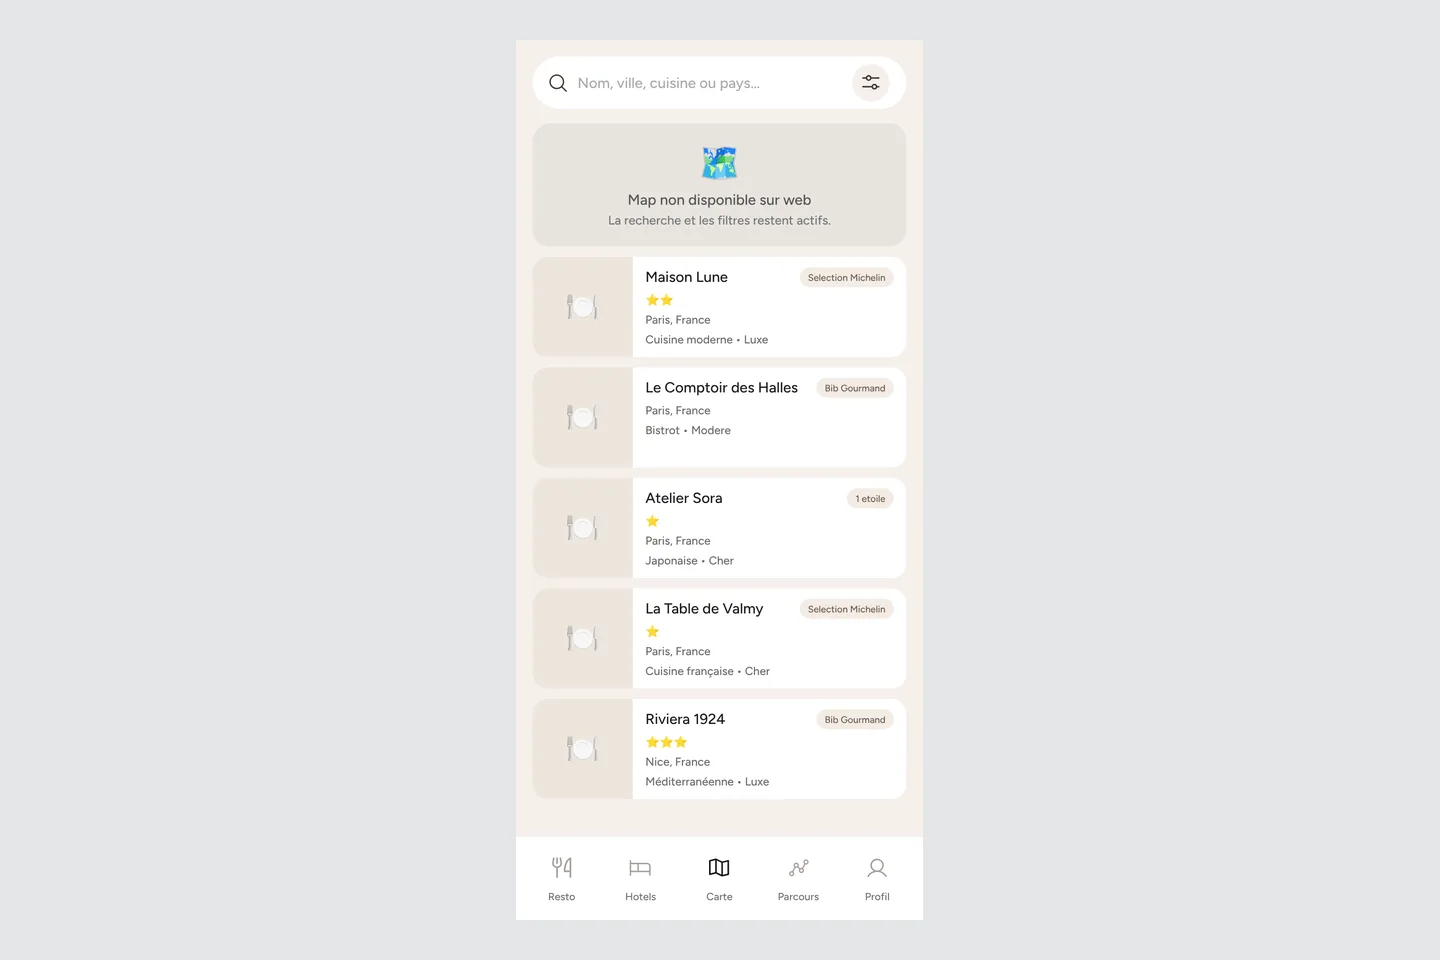
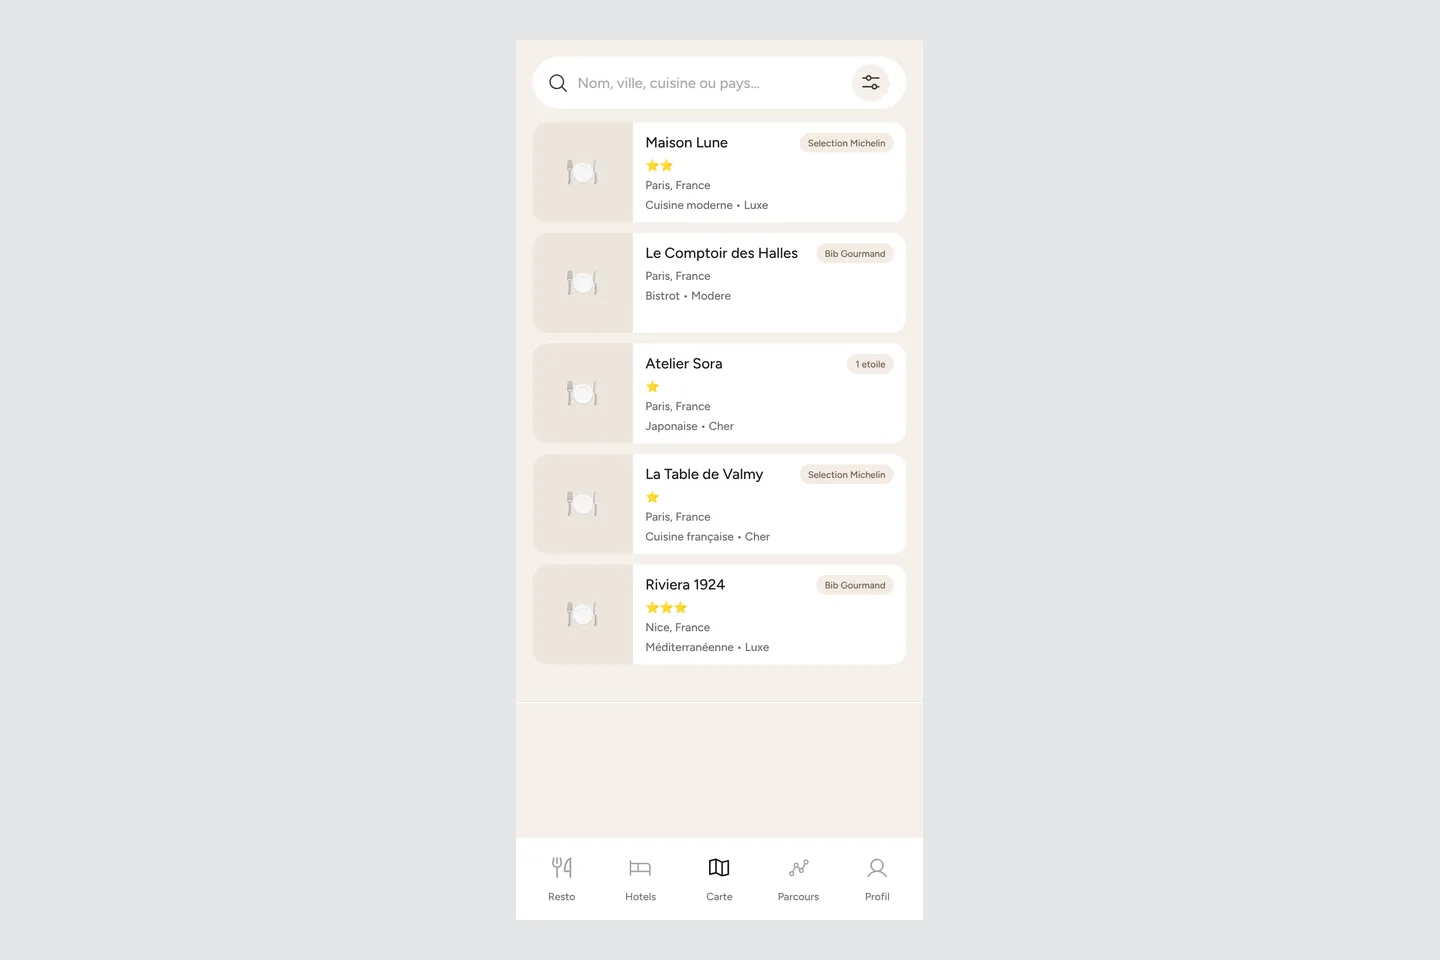
Corrections après test dans le navigateur
Échap sur une capture agrandie ne ferme plus la fiche, le bouton retour du navigateur ferme la fiche, la page ne défile plus derrière une fiche ouverte. Capture agrandie ajustée à l'écran, aperçu du hackathon Michelin en trois écrans, espacements du parcours et légendes harmonisés.

diff --git a/src/data/projectCaptures.ts b/src/data/projectCaptures.ts
@@ -24,7 +24,7 @@ const sources: Record<string, Source[]> = {
   "Corso Motors": [
     {
       src: "/projects/corso-home.webp",
-      ...owner("Site vitrine — accueil", "Showcase website — home"),
+      ...owner("Accueil du site vitrine", "Showcase website home page"),
     },
     {
       src: "/projects/corso-models.webp",
@@ -32,7 +32,7 @@ const sources: Record<string, Source[]> = {
     },
     {
       src: "/projects/corso-login.webp",
-      ...owner("Portail unifié — connexion", "Unified portal — sign-in"),
+      ...owner("Connexion au portail unifié", "Unified portal sign-in"),
     },
     {
       src: "/projects/corso-hub.webp",
@@ -76,11 +76,11 @@ const sources: Record<string, Source[]> = {
     {
       src: "/projects/comp-bike.webp",
       fr: [
-        "Interface de Comp Bike — capture originale",
+        "Interface de Comp Bike",
         "Capture conservée depuis la première version du portfolio.",
       ],
       en: [
-        "Comp Bike interface — original screenshot",
+        "Comp Bike interface",
         "Kept from the first version of this portfolio.",
       ],
     },
@@ -88,35 +88,43 @@ const sources: Record<string, Source[]> = {
       src: "/projects/comp-bike-home.webp",
       fr: [
         "Accueil et présentation du produit",
-        "Application lancée localement · novembre 2026.",
+        "Application lancée localement, novembre 2026.",
       ],
-      en: [
-        "Home page and product overview",
-        "App run locally · November 2026.",
-      ],
+      en: ["Home page and product overview", "App run locally, November 2026."],
     },
     {
       src: "/projects/comp-bike-config.webp",
       fr: [
         "Configuration et sélection des composants",
-        "Interface locale · données de démonstration présentes dans le dépôt.",
+        "Interface locale, données de démonstration présentes dans le dépôt.",
       ],
       en: [
         "Build configuration and component picker",
-        "Local run · demo data shipped with the repository.",
+        "Local run, demo data shipped with the repository.",
       ],
     },
   ],
   "Hackathon Michelin": [
     {
+      src: "/projects/michelin-overview.webp",
+      fr: [
+        "Recherche, création de parcours et profil",
+        "Version web Expo locale, établissements fictifs servis par une API simulée.",
+      ],
+      en: [
+        "Search, trail builder and profile",
+        "Local Expo web build, fictional venues served by a mocked API.",
+      ],
+    },
+    {
       src: "/projects/michelin-search.webp",
       fr: [
         "Recherche d’établissements et distinctions",
-        "Version web Expo locale · données de démonstration fictives.",
+        "Version web Expo locale, données de démonstration fictives.",
       ],
       en: [
         "Venue search and distinctions",
-        "Local Expo web build · fictional demo data.",
+        "Local Expo web build, fictional demo data.",
       ],
     },
     {
@@ -147,22 +155,22 @@ const sources: Record<string, Source[]> = {
       src: "/projects/hankotrack-home.webp",
       fr: [
         "Accueil de HankoTrack",
-        "Frontend Nuxt lancé localement · vue publique, sans connexion au backend.",
+        "Frontend Nuxt lancé localement, vue publique, sans connexion au backend.",
       ],
       en: [
         "HankoTrack home page",
-        "Nuxt frontend run locally · public view, no backend connection.",
+        "Nuxt frontend run locally, public view, no backend connection.",
       ],
     },
     {
       src: "/projects/hankotrack-features.webp",
       fr: [
         "Fonctionnalités et parcours de découverte",
-        "Page publique de l’application · novembre 2026.",
+        "Page publique de l’application, novembre 2026.",
       ],
       en: [
         "Features and discovery flow",
-        "Public page of the app · November 2026.",
+        "Public page of the app, November 2026.",
       ],
     },
   ],
@@ -205,33 +213,33 @@ const sources: Record<string, Source[]> = {
       src: "/projects/bastion-tests.webp",
       fr: [
         "24 tests unitaires et de fuzzing au vert",
-        "Sortie réelle de forge test · novembre 2026.",
+        "Sortie réelle de forge test, novembre 2026.",
       ],
       en: [
         "24 passing unit and fuzz tests",
-        "Actual forge test output · November 2026.",
+        "Actual forge test output, November 2026.",
       ],
     },
     {
       src: "/projects/bastion-invariants.webp",
       fr: [
         "Invariants : 128 campagnes de 8 192 appels",
-        "Sortie réelle de forge test · novembre 2026.",
+        "Sortie réelle de forge test, novembre 2026.",
       ],
       en: [
         "Invariants: 128 runs of 8,192 calls",
-        "Actual forge test output · November 2026.",
+        "Actual forge test output, November 2026.",
       ],
     },
     {
       src: "/projects/bastion-e2e.webp",
       fr: [
         "Bout en bout : le keeper Rust exécute un DCA",
-        "Chaîne locale anvil · sortie réelle de scripts/e2e.sh.",
+        "Chaîne locale anvil, sortie réelle de scripts/e2e.sh.",
       ],
       en: [
         "End to end: the Rust keeper executes a DCA order",
-        "Local anvil chain · actual scripts/e2e.sh output.",
+        "Local anvil chain, actual scripts/e2e.sh output.",
       ],
     },
   ],
@@ -251,22 +259,22 @@ const sources: Record<string, Source[]> = {
       src: "/projects/rugradar-watch.webp",
       fr: [
         "Mode watch : trois paires détectées et notées",
-        "Chaîne BNB locale (ganache) · sortie réelle du scanner.",
+        "Chaîne BNB locale (ganache), sortie réelle du scanner.",
       ],
       en: [
         "Watch mode: three new pairs found and scored",
-        "Local BNB chain (ganache) · actual scanner output.",
+        "Local BNB chain (ganache), actual scanner output.",
       ],
     },
     {
       src: "/projects/rugradar-check.webp",
       fr: [
         "Analyse détaillée d’un honeypot",
-        "Sortie réelle de rugradar check · chaîne BNB locale.",
+        "Sortie réelle de rugradar check, chaîne BNB locale.",
       ],
       en: [
         "Detailed analysis of a honeypot",
-        "Actual rugradar check output · local BNB chain.",
+        "Actual rugradar check output, local BNB chain.",
       ],
     },
   ],
@@ -275,11 +283,11 @@ const sources: Record<string, Source[]> = {
       src: "/projects/nexus-login.webp",
       fr: [
         "Connexion à la supervision Nexus",
-        "Interface locale · les vues internes nécessitent le backend et une session administrateur.",
+        "Interface locale, les vues internes nécessitent le backend et une session administrateur.",
       ],
       en: [
         "Nexus console sign-in",
-        "Local run · internal views need the backend and an admin session.",
+        "Local run, internal views need the backend and an admin session.",
       ],
     },
   ],
@@ -287,23 +295,23 @@ const sources: Record<string, Source[]> = {
     {
       src: "/projects/soravyn-studio.webp",
       fr: [
-        "Campaign Studio — identité et campagnes",
+        "Campaign Studio : identité et campagnes",
         "Instance locale avec une base de démonstration isolée.",
       ],
       en: [
-        "Campaign Studio — brand and campaigns",
+        "Campaign Studio: brand and campaigns",
         "Local instance with an isolated demo database.",
       ],
     },
     {
       src: "/projects/soravyn-dashboard.webp",
       fr: [
-        "Command Center — tableau de bord initial",
-        "Installation locale vierge · aucun agent ni campagne en cours.",
+        "Command Center : tableau de bord initial",
+        "Installation locale vierge, aucun agent ni campagne en cours.",
       ],
       en: [
-        "Command Center — initial dashboard",
-        "Fresh local install · no agents or campaigns running.",
+        "Command Center: initial dashboard",
+        "Fresh local install, no agents or campaigns running.",
       ],
     },
   ],
@@ -312,19 +320,19 @@ const sources: Record<string, Source[]> = {
       src: "/projects/specto-home.webp",
       fr: [
         "Accueil de Specto",
-        "Frontend Next.js lancé localement · page publique.",
+        "Frontend Next.js lancé localement, page publique.",
       ],
-      en: ["Specto home page", "Next.js frontend run locally · public page."],
+      en: ["Specto home page", "Next.js frontend run locally, public page."],
     },
     {
       src: "/projects/specto-features.webp",
       fr: [
         "Présentation des types de tests",
-        "Vue publique · aucun test IA exécuté pour cette capture.",
+        "Vue publique, aucun test IA exécuté pour cette capture.",
       ],
       en: [
         "Supported test types",
-        "Public view · no AI test run for this screenshot.",
+        "Public view, no AI test run for this screenshot.",
       ],
     },
   ],

diff --git a/src/App.tsx b/src/App.tsx
@@ -99,7 +99,9 @@ function ProjectSheet({
       ref={dialog}
       className="sheet"
       aria-labelledby="sheet-title"
-      onClose={onClose}
+      onClose={(event) => {
+        if (event.target === event.currentTarget) onClose();
+      }}
       onClick={(event) => {
         if (event.target === event.currentTarget) onClose();
       }}
@@ -178,27 +180,37 @@ function ProjectSheet({
 }
 
 function App() {
-  const [open, setOpen] = useState<number | null>(() => {
-    const found = projects.findIndex(
-      (p) => `#${slug(p.name)}` === window.location.hash,
-    );
-    return found >= 0 ? found : null;
-  });
+  const [hash, setHash] = useState(() => window.location.hash);
   const object = useRef<HTMLButtonElement>(null);
-  const current = open === null ? null : (projects[open] ?? null);
+  const open = projects.findIndex((p) => `#${slug(p.name)}` === hash);
+  const current = open >= 0 ? (projects[open] ?? null) : null;
 
+  // The open project lives in the URL, so the browser back button closes it.
   useEffect(() => {
-    const url = window.location.pathname;
-    if (current)
-      window.history.replaceState(null, "", `${url}#${slug(current.name)}`);
-    else if (projects.some((p) => `#${slug(p.name)}` === window.location.hash))
-      window.history.replaceState(null, "", url);
-  }, [current]);
+    const sync = () => setHash(window.location.hash);
+    window.addEventListener("popstate", sync);
+    return () => window.removeEventListener("popstate", sync);
+  }, []);
 
+  const show = (index: number) => {
+    const target = projects[index];
+    if (!target) return;
+    const url = `#${slug(target.name)}`;
+    if (current) window.history.replaceState(window.history.state, "", url);
+    else window.history.pushState({ sheet: true }, "", url);
+    setHash(url);
+  };
+  const close = () => {
+    if (!current) return;
+    if ((window.history.state as { sheet?: boolean } | null)?.sheet) {
+      window.history.back();
+    } else {
+      window.history.replaceState(null, "", window.location.pathname);
+      setHash("");
+    }
+  };
   const move = (delta: number) =>
-    setOpen((i) =>
-      i === null ? 0 : (i + delta + projects.length) % projects.length,
-    );
+    show((open + delta + projects.length) % projects.length);
 
   return (
     <>
@@ -299,7 +311,7 @@ function App() {
                     <ProjectCard
                       key={project.name}
                       project={project}
-                      onOpen={() => setOpen(projects.indexOf(project))}
+                      onOpen={() => show(projects.indexOf(project))}
                     />
                   ))}
                 </ul>
@@ -380,11 +392,7 @@ function App() {
         </div>
       </footer>
 
-      <ProjectSheet
-        project={current}
-        onClose={() => setOpen(null)}
-        onMove={move}
-      />
+      <ProjectSheet project={current} onClose={close} onMove={move} />
     </>
   );
 }

diff --git a/src/index.css b/src/index.css
@@ -64,6 +64,9 @@ svg {
   stroke-width: 1.6;
   flex-shrink: 0;
 }
+html:has(.sheet[open]) {
+  overflow: hidden;
+}
 :focus-visible {
   outline: 2px solid var(--focus);
   outline-offset: 3px;
@@ -338,7 +341,7 @@ svg {
 .card-wide .card-button {
   grid-template-columns: minmax(0, 1.6fr) minmax(0, 1fr);
   gap: 40px;
-  align-items: end;
+  align-items: center;
 }
 .card-wide .card-name {
   font-size: clamp(40px, 4.4vw, 60px);
@@ -577,8 +580,13 @@ svg {
 }
 .gallery-dialog img {
   width: 100%;
+  max-height: calc(100svh - 150px);
+  object-fit: contain;
   margin: 12px 0;
   border-radius: 3px;
+}
+.gallery-dialog-bar strong {
+  margin-right: 8px;
 }
 .gallery-dialog small {
   color: #b4bac0;
@@ -589,8 +597,8 @@ svg {
   display: grid;
   grid-template-columns: minmax(0, 1fr) minmax(0, 2fr);
   gap: 32px;
-  margin-top: clamp(96px, 12vw, 160px);
-  padding: clamp(56px, 9vw, 120px) var(--gutter);
+  margin-top: clamp(64px, 8vw, 112px);
+  padding: clamp(56px, 8vw, 104px) var(--gutter);
   border-top: 1px solid var(--rule);
 }
 .about-intro p {
@@ -616,7 +624,7 @@ svg {
 }
 .jobs > li {
   display: grid;
-  grid-template-columns: 11em minmax(0, 1fr);
+  grid-template-columns: 13.5em minmax(0, 1fr);
   column-gap: 24px;
 }
 .job-period {

diff --git a/src/components/ProjectGallery.tsx b/src/components/ProjectGallery.tsx
@@ -98,7 +98,7 @@ export default function ProjectGallery({ name }: { name: string }) {
       >
         <div className="gallery-dialog-bar">
           <span>
-            {name} — {capture.label}
+            <strong>{name}</strong> {capture.label}
           </span>
           <button
             autoFocus
